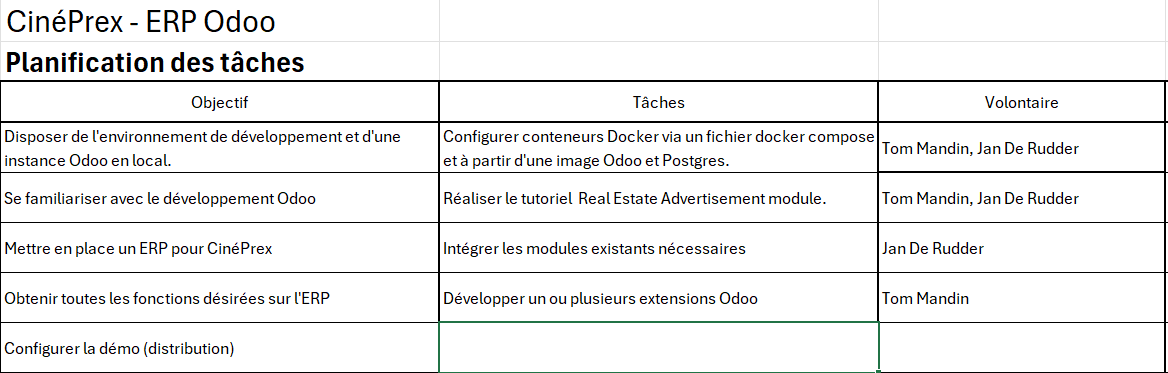
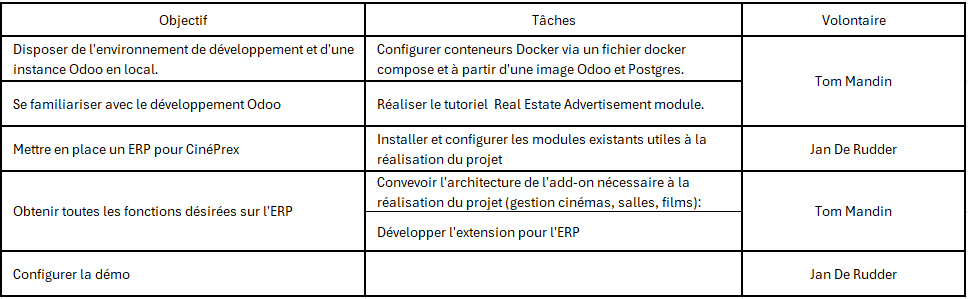
préparation distrib
modif readme
fichier TODO
fix une erreur due à un nom de field (cinema_complex.py)

Changed region(s): [[0.0, 0.0, 1.0, 1.0], [0.8368, 0.903, 0.9298, 0.9331]]

diff --git a/addons/cinema/models/cinema_complex.py b/addons/cinema/models/cinema_complex.py
@@ -6,4 +6,4 @@ class CinemaComplex(models.Model):
 
     name = fields.Char(string='Cinema Complex Name')
     address = fields.Char(string='Address', required=True)
-    auditorium_ids = fields.One2many('cinema.auditorium', 'cinema_id', string='Auditoriums')
+    auditorium_ids = fields.One2many('cinema.auditorium', 'complex_id', string='Auditoriums')

diff --git a/README.md b/README.md
@@ -7,13 +7,49 @@ Auteurs
 - Tom Mandin
 - Jan De Rudder
 
-## Planification
 
-![alt text](doc/readme/planification.png)
+## Utilisation
+
+Ce projet utilise Docker.
+
+Pour lancer l'ERP, placez vous à la racine du dépôt et faites:
+
+    $ docker compose up -d
+
+L'ERP est disponible à l'adresse `http://localhost:8069/` dans votre navigateur web.
+
+Lors du premier lancement, vous devez configurer la base de données. Pour ce faire:
+
+- allez à l'URL `http://localhost:8069/web/database/manager`
+- choisissez `Restore Database`
+- uploadez l'archive depuis le dépôt à l'emplacement `odoo-backup/cinema_latest.zip`
+
 
 
 ## Développement
 
+### Planification du projet
+
+![alt text](doc/readme/planification.png)
+
+
 ### Import/export BDD
 
 Utiliser la sauvegarde par fichier .zip du gestionnaire base de données à l'adresse http://localhost:8069/web/database/manager.
+
+
+### Mise à jour liste applications
+
+Si besoin de mettre à jour manuellement la liste des applications sur l'ERP:
+
+- se connecter au conteneur odoo
+
+    $ docker exec -it odoo-web sh
+
+- mettre à jour l'appli cinéma
+
+    $ odoo --db_host=odoo-db -u cinema -d odoo -w password
+
+- alternativement, tout mettre à jour
+
+    $ odoo --db_host=odoo-db -u all -d odoo -w password

diff --git a/TODO.md b/TODO.md
@@ -1,0 +1,5 @@
+# todo
+
+## distribution
+
+- exporter la base de données odoo dans `odoo-backup/cinema_latest.zip`
